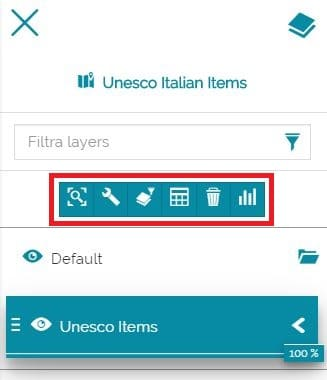
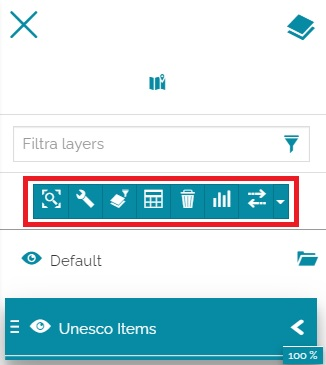
compare_tool

diff --git a/docs/user-guide/toc.md b/docs/user-guide/toc.md
@@ -102,29 +102,11 @@ With groups there's the possibility to:
 
 ## Toolbar options
 
-Once a layer is selected the following toolbar appears: 
-
-<img src="../img/toc/layer-toolbar.jpg" class="ms-docimage"/>
-
-Through this toolbar it is possible to:
-
-* **Zoom to selected layer extent** <img src="../img/button/zoom-layer.jpg" class="ms-docbutton"/>
-
-* Access the selected [Layer Settings](layer-settings.md) <img src="../img/button/properties.jpg" class="ms-docbutton"/>
-
-* [Set a Filter](filtering-layers.md) for that layer <img src="../img/button/filter-layer.jpg" class="ms-docbutton"/>
-
-* Access the [Attribute Table](attributes-table.md) <img src="../img/button/attributes-table.jpg" class="ms-docbutton"/>
-
-* **Remove** the selected layer <img src="../img/button/delete.jpg" class="ms-docbutton"/>
-
-* [Create Widgets](widgets.md) for the selected layer <img src="../img/button/widgets.jpg" class="ms-docbutton"/>
-
-Selecting a group the toolbar is the following:
+Once a group is selected the following toolbar appears: 
 
 <img src="../img/toc/group-toolbar.jpg" class="ms-docimage"/>
 
-In this case the user is allowed to:
+Through this toolbar it is possible to:
 
 * **Add layer to selected group** <img src="../img/button/add_layer_button.jpg" class="ms-docbutton"/>
 
@@ -142,4 +124,36 @@ Once the changes have been made, it's possible to save them through the **Save**
 
 !!! note
     Information such modified will be persisted only within the current user session. In order to make thiese kind of changes persistent also for other user session, the whole map context needs to be saved.
+
+Selecting a layer the toolbar is the following:
+
+<img src="../img/toc/layer-toolbar.jpg" class="ms-docimage"/>
+
+In this case the user is allowed to:
+
+* **Zoom to selected layer extent** <img src="../img/button/zoom-layer.jpg" class="ms-docbutton"/>
+
+* Access the selected [Layer Settings](layer-settings.md) <img src="../img/button/properties.jpg" class="ms-docbutton"/>
+
+* [Set a Filter](filtering-layers.md) for that layer <img src="../img/button/filter-layer.jpg" class="ms-docbutton"/>
+
+* Access the [Attribute Table](attributes-table.md) <img src="../img/button/attributes-table.jpg" class="ms-docbutton"/>
+
+* **Remove** the selected layer <img src="../img/button/delete.jpg" class="ms-docbutton"/>
+
+* [Create Widgets](widgets.md) for the selected layer <img src="../img/button/widgets.jpg" class="ms-docbutton"/>
+
+* Access the **Compare tool** where it is possible *Swipe* or *Spy* the selected layer <img src="../img/button/compare_tool_button.jpg" class="ms-docbutton"/>. 
+
+From the dropdown menu <img src="../img/button/dropdown_menu_button.jpg" class="ms-docbutton" style="max-height:25px;"/> by clicking on <img src="../img/button/swipe_button.jpg" class="ms-docbutton" style="max-height:25px;"/> button a draggable handle appears on the map to swipe the selected layer. 
+
+<img src="../img/toc/swipe_on_map.jpg" class="ms-docimage" style="max-width:600px;"/>
+
+Once the Swipe is active, also on the dropdown menu <img src="../img/button/dropdown_menu_button.jpg" class="ms-docbutton" style="max-height:25px;"/>, by clicking on <img src="../img/button/configure_button.jpg" class="ms-docbutton" style="max-height:25px;"/> button the editor can change the direction of the swipe from *Vertical* to *Horizontal*.
+
+The user can also activated the <img src="../img/button/spy_button.jpg" class="ms-docbutton" style="max-height:25px;"/> from the same dropdown menu <img src="../img/button/dropdown_menu_button.jpg" class="ms-docbutton" style="max-height:25px;"/> and spy on the layer with the spy glass.
+
+<img src="../img/toc/spy_on_map.jpg" class="ms-docimage" style="max-width:600px;"/>
+
+If the *Spy glass* is active from the dropdown menu <img src="../img/button/dropdown_menu_button.jpg" class="ms-docbutton" style="max-height:25px;"/> by clicking on <img src="../img/button/configure_button.jpg" class="ms-docbutton" style="max-height:25px;"/> button, it is possible to change the size of the spy glass (`radius`). 
 
